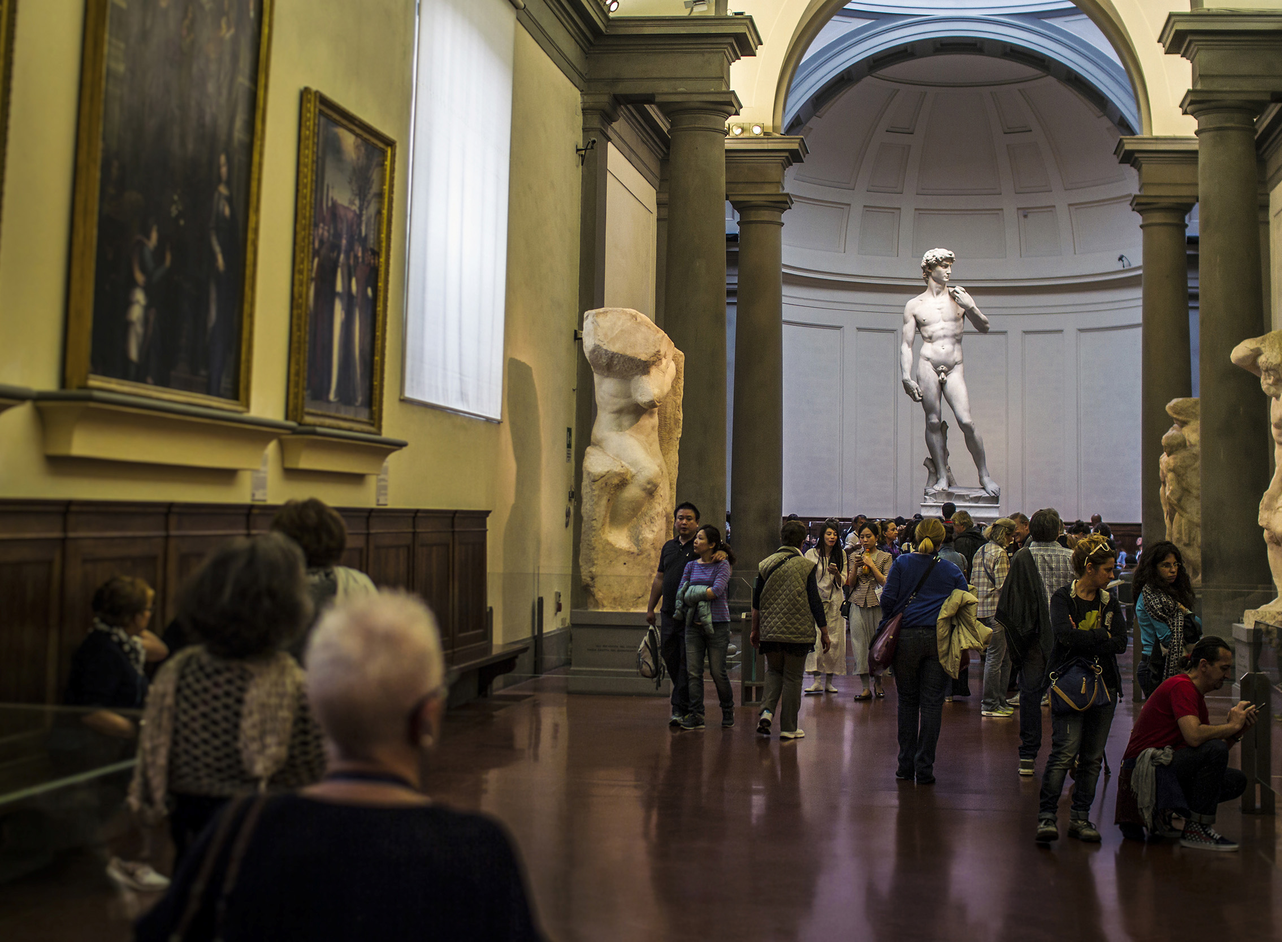
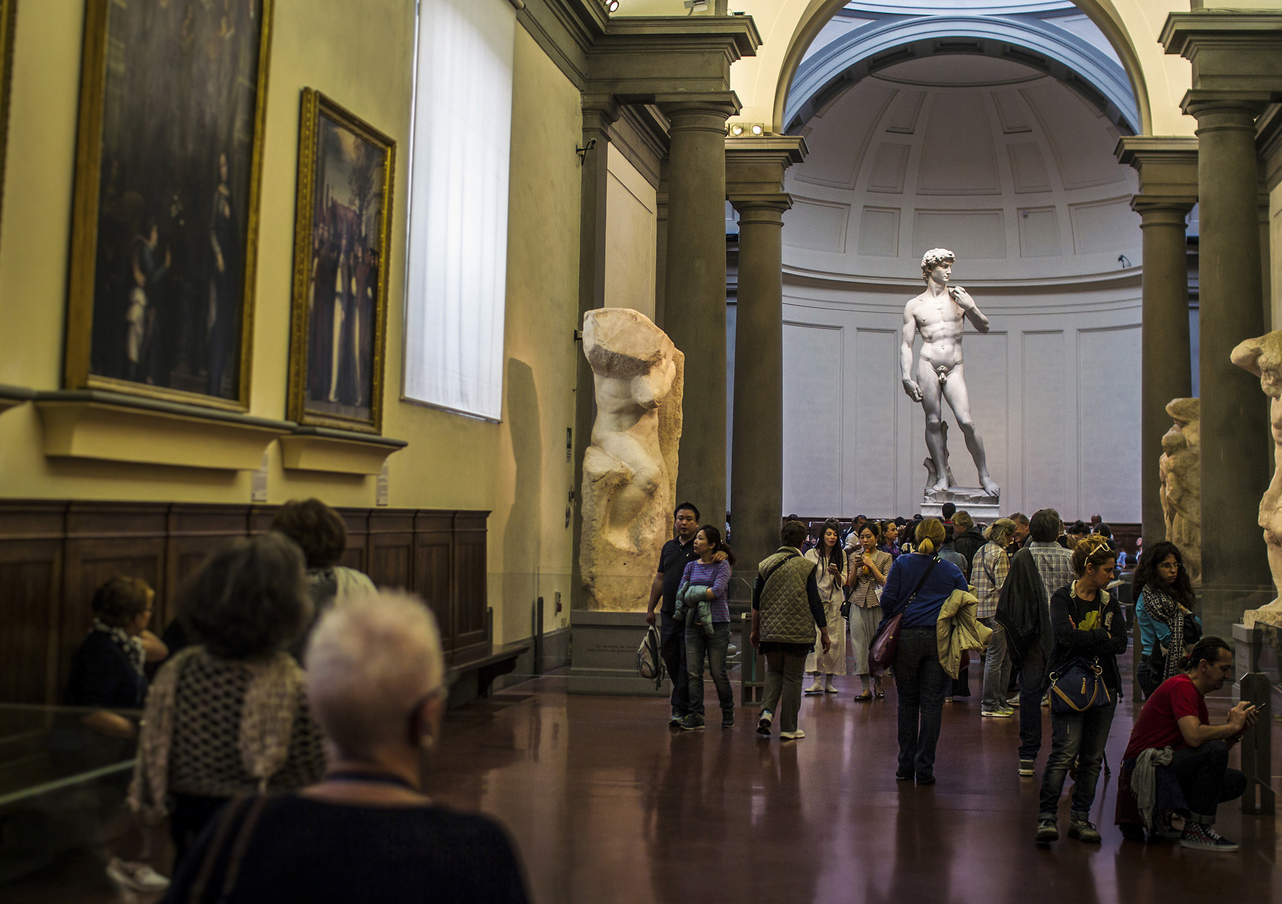
ggggg

diff --git a/florence.html b/florence.html
@@ -69,14 +69,6 @@
           </a>
         </div>
 
-         <div class="col-md-4 col-sm-6">
-          <a href="" class="probootstrap-hover-overlay">
-            <img src="img/florence/florence.jpg"  class="img-responsive">
-            <div class="probootstrap-text-overlay">
-              <h3>Florence Cathedral</h3>  
-            </div>
-          </a>
-        </div>
 
           <div class="col-md-4 col-sm-6">
           <a href="" class="probootstrap-hover-overlay">
@@ -86,6 +78,16 @@
             </div>
           </a>
         </div>
+
+         <div class="col-md-4 col-sm-6">
+          <a href="" class="probootstrap-hover-overlay">
+            <img src="img/florence/florence.jpg"  class="img-responsive">
+            <div class="probootstrap-text-overlay">
+              <h3>Florence Cathedral</h3>  
+            </div>
+          </a>
+        </div>
+
 
         <div class="col-md-4 col-sm-6">
           <a href="" class="probootstrap-hover-overlay">

diff --git a/index.html b/index.html
@@ -80,7 +80,7 @@
 
          <div class="col-md-4 col-lg-6">
           <a href="florence.html" class="probootstrap-hover-overlay">
-            <img src="img/florence/florence.jpg"  class="img-responsive">
+            <img src="img/florence/florence2.jpg"  class="img-responsive">
             <div class="probootstrap-text-overlay">
               <h3>Florence</h3>
             </div>
